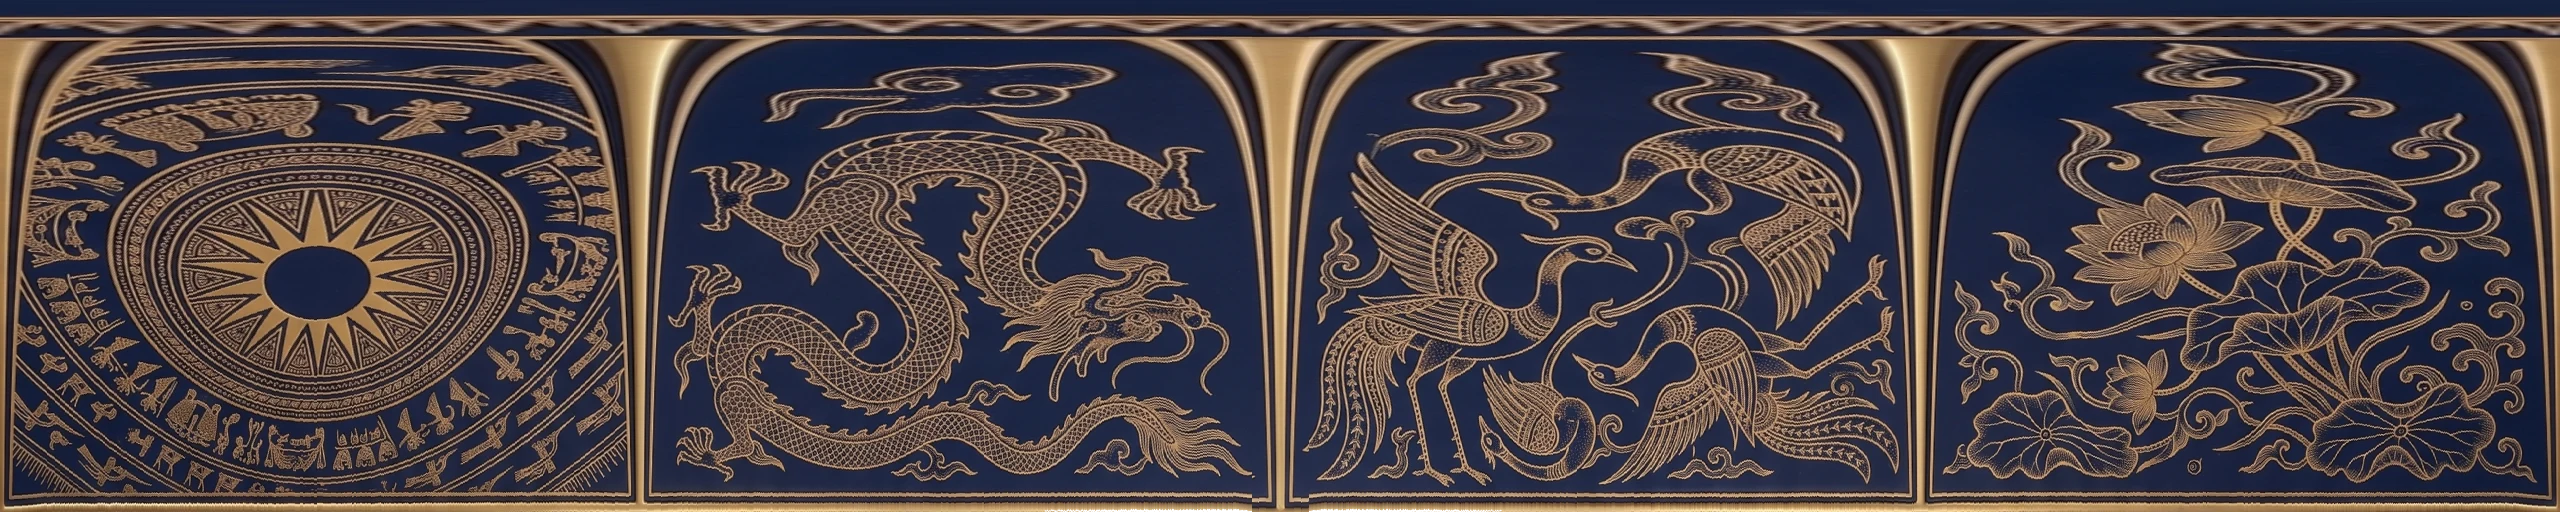
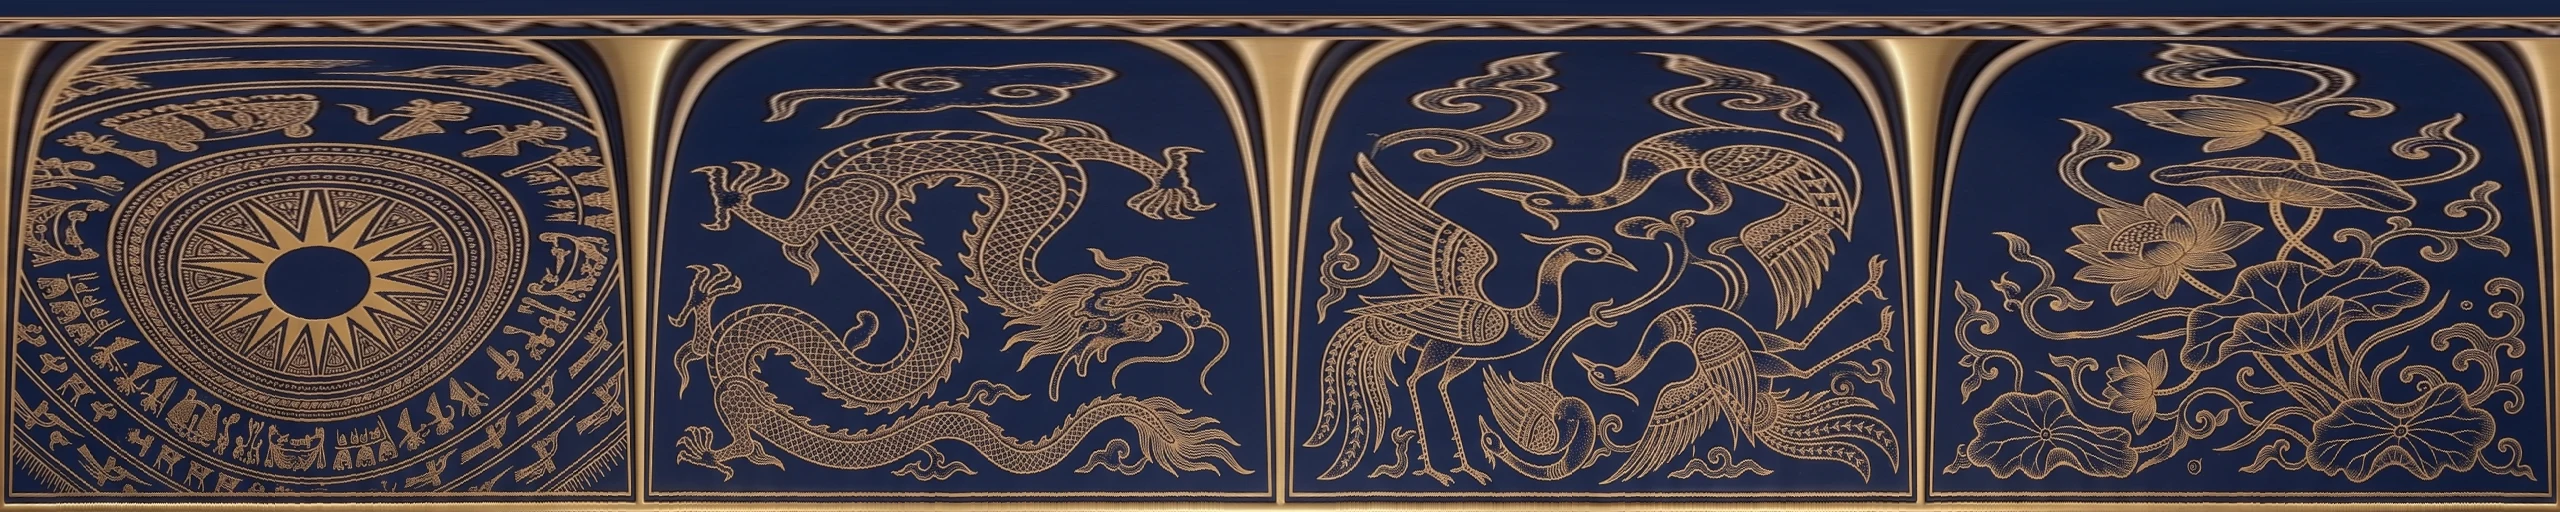
feat(hat): enhance hat geometry and rendering with depth adjustments and new shader effects

diff --git a/components/home/HatScene.tsx b/components/home/HatScene.tsx
@@ -2,10 +2,10 @@
 
 import { useEffect, useMemo, useRef } from "react";
 import { Canvas, useFrame, useThree } from "@react-three/fiber";
-import { DoubleSide, LatheGeometry, Vector2, type Group } from "three";
+import { BackSide, DoubleSide, LatheGeometry, Vector2, type Group } from "three";
 import { indexForYaw, shortestAngle, yawForIndex } from "./carouselMath";
-import { hatProfile } from "./hatGeometry";
-import { HAT_GOLD, createHatTexture } from "./hatTexture";
+import { HAT_DEPTH, hatProfile } from "./hatGeometry";
+import { HAT_GOLD, HAT_NAVY, createHatTexture } from "./hatTexture";
 
 export type HatSceneProps = {
   /** Target yaw in radians; the hat eases toward it, taking the short way round. */
@@ -35,12 +35,33 @@ const RADIUS = 1.7;
  * curve of the rim instead.
  */
 const HEIGHT = 1.5;
+/** Width of the outline round the silhouette, as a scale on the cone's radius. */
+const OUTLINE = 1.014;
+/**
+ * Towards the silhouette the painted surface fades to a dark navy. The artwork
+ * runs a gold divider or frame line down the side wherever the hat is turned
+ * so that one sits on the edge, and seen edge-on that is a long pale strip along
+ * the outline — which reads as if the side were dented. Darkening by how
+ * squarely the surface faces the eye keeps the contour a clean navy line
+ * whatever is painted there. 1 = facing the viewer, 0 = on the silhouette.
+ */
+const EDGE_FADE_START = 0.45;
+const EDGE_FADE_MIN = 0.2;
+
+function darkenSilhouette(shader: { fragmentShader: string }) {
+  shader.fragmentShader = shader.fragmentShader.replace(
+    "#include <map_fragment>",
+    `#include <map_fragment>
+    float facing = abs(dot(normalize(vNormal), normalize(vViewPosition)));
+    diffuseColor.rgb *= mix(${EDGE_FADE_MIN.toFixed(2)}, 1.0, smoothstep(0.0, ${EDGE_FADE_START.toFixed(2)}, facing));`,
+  );
+}
 /**
  * Aim below the hat's centre so the apex and the front of the brim sit an equal
  * distance from the top and bottom of the frame — otherwise the hat rides low
  * and the space above it is wasted.
  */
-const CAMERA_TARGET_Y = -0.55;
+const CAMERA_TARGET_Y = -0.475;
 const DRAG_SPEED = 0.008;
 /** Pointer travel (px) above which a click is treated as the end of a drag. */
 const CLICK_SLOP = 6;
@@ -224,22 +245,38 @@ function Hat({ yaw, count, reducedMotion, onSpin, onSelect, onReady, spin: spinM
   });
 
   return (
-    <group
-      ref={group}
-      position={[0, -0.1, 0]}
-      onClick={(event) => {
-        if (event.delta > CLICK_SLOP) return;
-        event.stopPropagation();
-        onSpin();
-      }}
-    >
-      <mesh geometry={shell}>
-        <meshStandardMaterial map={texture} metalness={0.35} roughness={0.45} side={DoubleSide} />
-      </mesh>
-      <mesh position={[0, -HEIGHT / 2, 0]} rotation={[Math.PI / 2, 0, 0]}>
-        <torusGeometry args={[RADIUS, 0.028, 16, 128]} />
-        <meshStandardMaterial color={HAT_GOLD} metalness={0.9} roughness={0.25} />
-      </mesh>
+    <group position={[0, -0.1, 0]} scale={[1, 1, HAT_DEPTH]}>
+      <group
+        ref={group}
+        onClick={(event) => {
+          if (event.delta > CLICK_SLOP) return;
+          event.stopPropagation();
+          onSpin();
+        }}
+      >
+        {/*
+          A navy outline: a slightly wider copy of the cone, drawn inside out so
+          only its rim shows past the real one. Where a gold divider or frame line
+          runs along the silhouette, the bright metal would otherwise fade into the
+          cream page and read as a dent in the side of the hat.
+        */}
+        <mesh geometry={shell} scale={[OUTLINE, 1, OUTLINE]}>
+          <meshBasicMaterial color={HAT_NAVY} side={BackSide} />
+        </mesh>
+        <mesh geometry={shell}>
+          <meshStandardMaterial
+            map={texture}
+            metalness={0.35}
+            roughness={0.45}
+            side={DoubleSide}
+            onBeforeCompile={darkenSilhouette}
+          />
+        </mesh>
+        <mesh position={[0, -HEIGHT / 2, 0]} rotation={[Math.PI / 2, 0, 0]}>
+          <torusGeometry args={[RADIUS, 0.028, 16, 128]} />
+          <meshStandardMaterial color={HAT_GOLD} metalness={0.9} roughness={0.25} />
+        </mesh>
+      </group>
     </group>
   );
 }

diff --git a/components/home/HatFallback.tsx b/components/home/HatFallback.tsx
@@ -1,16 +1,19 @@
+import { HAT_DEPTH } from "./hatGeometry";
+
 // Left side of the hat, apex → rim. The sides are straight, like the 3D cone;
 // hoops follow them, so each one is an arc between the two sides at that height.
 // The landmarks are measured off the 3D scene's own projection, so the static
 // hat and the one that replaces it are the same shape.
-const APEX = { x: 200, y: 32 };
-const RIM = { x: 18, y: 210 };
+const APEX = { x: 200, y: 43 };
+const RIM = { x: 18, y: 221 };
 /**
  * How far the front of a ring dips below its sides, as a share of its half
  * width. Every circle on the cone is seen at the same angle, so one number
- * serves the rim and every hoop: 0.83 as a quadratic's control offset puts the
- * front of the rim at y 286, where the scene's camera puts it.
+ * serves the rim and every hoop: 0.83 for a hat of full depth, times HAT_DEPTH
+ * for the one pressed flatter, as a quadratic's control offset puts the front of
+ * the rim at y 278, where the scene's camera puts it.
  */
-const DIP = 0.83;
+const DIP = 0.83 * HAT_DEPTH;
 
 function sideAt(t: number) {
   return { x: APEX.x + (RIM.x - APEX.x) * t, y: APEX.y + (RIM.y - APEX.y) * t };

diff --git a/components/home/hatGeometry.ts b/components/home/hatGeometry.ts
@@ -1,6 +1,17 @@
 export type ProfilePoint = { r: number; y: number };
 
 /**
+ * How deep the hat is front to back, as a share of how wide it is. The rim is a
+ * circle seen from 20° above, so at full depth the bottom corners come round in
+ * a wide curve and the sides look like they bulge into a bowl. Pressing the hat
+ * a quarter flatter front to back leaves its width and height alone but makes
+ * the rim a narrower ellipse, so the sides run straight down to a sharper
+ * corner. It is applied outside the spin, so the width never changes as the hat
+ * turns.
+ */
+export const HAT_DEPTH = 0.75;
+
+/**
  * Side profile of the hat, ordered from the rim (bottom) to the apex (top), for
  * `LatheGeometry`. The apex is at `y = height / 2` and the rim at `-height / 2`.
  *
